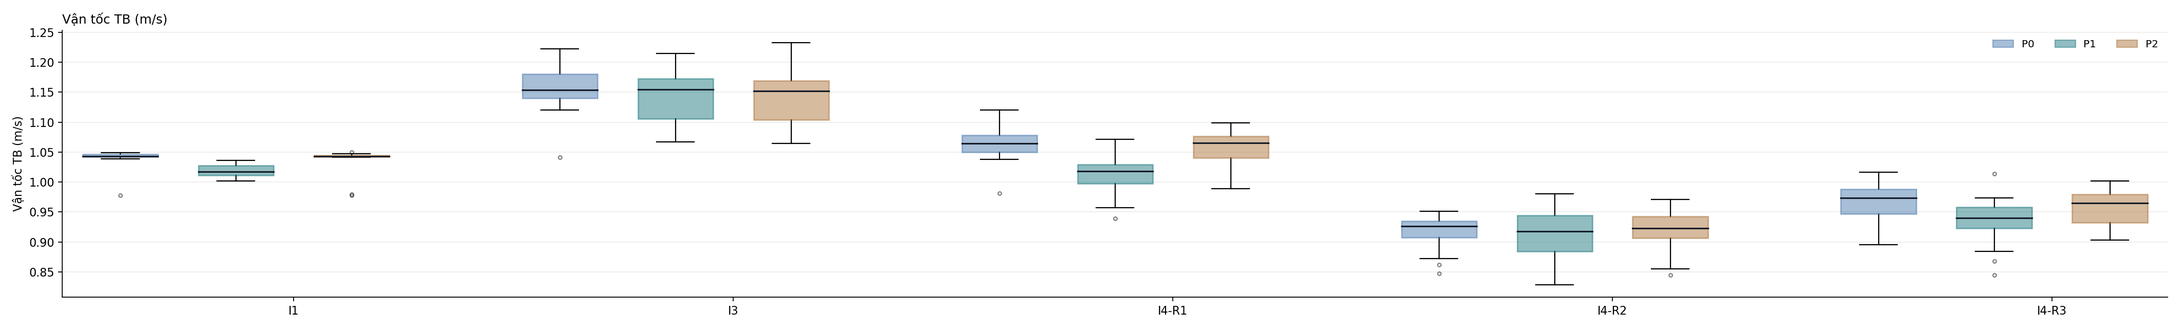
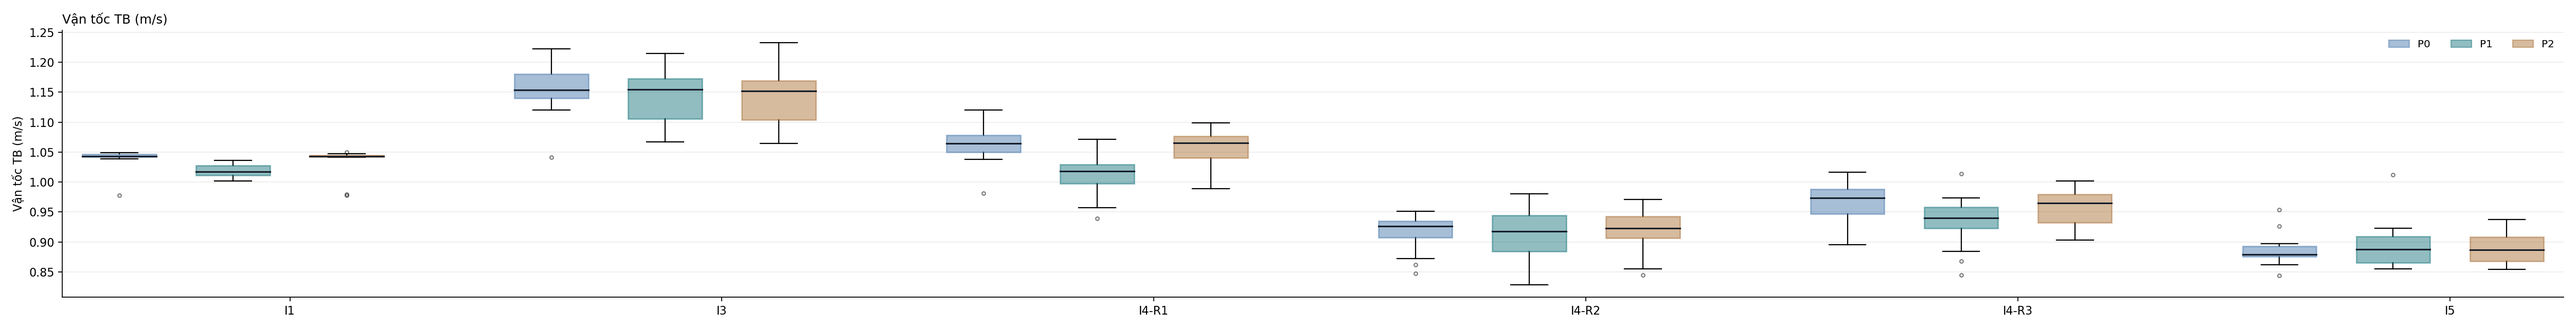
M3: ban do I5 ngo cut chu U, baseline 6 cau hinh x P0/P1/P2 x 20 luot (360 luot)

diff --git a/uav_simulator/map_generator/src/indoor_map_generator.cpp b/uav_simulator/map_generator/src/indoor_map_generator.cpp
@@ -169,6 +169,26 @@ void buildI4(Cloud& c, unsigned /*seed*/) {
   for (const auto& f : furn) addBox(c, f[0], f[1], f[2], f[3], f[4]);
 }
 
+// ---------------- I5: ngo cut chu U, 20x15x3 ----------------
+// Tuong chu U kin toi tran, mieng quay ve phia xuat phat (-8, 0), dich (8, 0)
+// nam sau day chu U. Dung de ghi nhan cuc tieu dia phuong cua baseline.
+void buildI5(Cloud& c, unsigned /*seed*/) {
+  const double SX = 20.0, SY = 15.0, SZ = 3.0;
+  addRoomShell(c, SX, SY, SZ);
+
+  const double X_MIENG = -2.0, X_DAY = 2.0, Y_CANH = 4.0;   // tui sau 4 m, rong 8 m
+  const Doors khong_cua;
+  // day chu U: vach x = +2, keo dai qua be day canh de bit kin goc
+  addPartition(c, true, X_DAY, -Y_CANH - WALL_T / 2, Y_CANH + WALL_T / 2, SZ, khong_cua);
+  // hai canh chu U: vach y = +-4, tu mieng toi day
+  addPartition(c, false,  Y_CANH, X_MIENG, X_DAY, SZ, khong_cua);
+  addPartition(c, false, -Y_CANH, X_MIENG, X_DAY, SZ, khong_cua);
+  // bit dau hai canh o mieng tui
+  addSlab(c, X_MIENG, X_MIENG,  Y_CANH - WALL_T / 2,  Y_CANH + WALL_T / 2, FLOOR_Z, SZ);
+  addSlab(c, X_MIENG, X_MIENG, -Y_CANH - WALL_T / 2, -Y_CANH + WALL_T / 2, FLOOR_Z, SZ);
+}
+
+
 
 int main(int argc, char** argv) {
   if (argc < 4) {
@@ -184,6 +204,7 @@ int main(int argc, char** argv) {
   if      (type == "I1") buildI1(cloud, seed);
   else if (type == "I3") buildI3(cloud, seed);
   else if (type == "I4") buildI4(cloud, seed);
+  else if (type == "I5") buildI5(cloud, seed);
   else { std::cerr << "Chua cai dat ban do: " << type << "\n"; return 1; }
 
   cloud.width    = cloud.points.size();

diff --git a/results/summary/bang_ket_qua.tex b/results/summary/bang_ket_qua.tex
@@ -21,6 +21,9 @@ I4-R2 & P2 & 100.0 & 17.08 $\pm$ 0.61 & 15.74 $\pm$ 0.26 & 1.86 $\pm$ 0.22 & 0.4
 I4-R3 & P0 & 100.0 & 16.38 $\pm$ 0.75 & 15.81 $\pm$ 0.40 & 2.15 $\pm$ 0.21 & 0.41 $\pm$ 0.02 & 1.66 $\pm$ 0.22 \\
 I4-R3 & P1 & 100.0 & 16.81 $\pm$ 0.98 & 15.69 $\pm$ 0.35 & 2.11 $\pm$ 0.32 & 0.39 $\pm$ 0.04 & 1.66 $\pm$ 0.33 \\
 I4-R3 & P2 & 100.0 & 16.40 $\pm$ 0.64 & 15.66 $\pm$ 0.32 & 2.00 $\pm$ 0.34 & 0.42 $\pm$ 0.01 & 1.80 $\pm$ 0.25 \\
+I5 & P0 & 0.0 & 120.18 $\pm$ 0.06 & 106.38 $\pm$ 2.78 & 3.12 $\pm$ 0.19 & 0.29 $\pm$ 0.20 & 2.88 $\pm$ 0.15 \\
+I5 & P1 & 0.0 & 120.18 $\pm$ 0.06 & 107.33 $\pm$ 4.38 & 5.98 $\pm$ 0.53 & 0.19 $\pm$ 0.16 & 1.37 $\pm$ 0.15 \\
+I5 & P2 & 0.0 & 120.17 $\pm$ 0.07 & 106.91 $\pm$ 3.00 & 3.04 $\pm$ 0.21 & 0.31 $\pm$ 0.19 & 3.04 $\pm$ 0.14 \\
 \hline
 \end{tabular}
 \end{table}

diff --git a/thesis_tools/benchmark_tools/scripts/batch_runner.py b/thesis_tools/benchmark_tools/scripts/batch_runner.py
@@ -44,6 +44,8 @@ MAPS = {
     "I4-R1": dict(pcd="I4", size=(26.0, 16.0, 4.5), start=(-10.0, -5.0), goals=[(10.0, -5.0)]),
     "I4-R2": dict(pcd="I4", size=(26.0, 16.0, 4.5), start=(-10.0, -5.0), goals=[(-10.0, 5.0)]),
     "I4-R3": dict(pcd="I4", size=(26.0, 16.0, 4.5), start=(10.0, -5.0), goals=[(10.0, 5.0)]),
+    # I5: ngo cut chu U kin toi tran, mieng quay ve xuat phat — cuc tieu dia phuong
+    "I5": dict(pcd="I5", size=(21.0, 16.0, 4.5), start=(-8.0, 0.0), goals=[(8.0, 0.0)])
 }
 
 # Tham so bay chung cho moi ban do

diff --git a/results/summary/bang_ket_qua.md b/results/summary/bang_ket_qua.md
@@ -19,3 +19,6 @@ Mỗi ô: trung bình ± độ lệch chuẩn. Cột N là số lượt chạy.
 | I4-R3 | P0 | 20 | 100.0 | 0 | 0 | 16.38 ± 0.75 | 15.81 ± 0.40 | 0.97 ± 0.03 | 1.46 ± 0.04 | 76.00 ± 13.51 | 2.15 ± 0.21 | 0.72 ± 0.01 | 0.41 ± 0.02 | 0.48 ± 0.03 | 9.98 ± 0.92 | 39.14 ± 6.58 | 1.66 ± 0.22 | 3.81 ± 0.47 | 9.30 ± 0.66 | 0.84 ± 0.12 |
 | I4-R3 | P1 | 20 | 100.0 | 0 | 0 | 16.81 ± 0.98 | 15.69 ± 0.35 | 0.94 ± 0.04 | 1.42 ± 0.07 | 77.23 ± 25.90 | 2.11 ± 0.32 | 0.64 ± 0.07 | 0.39 ± 0.04 | 0.45 ± 0.04 | 10.32 ± 1.80 | 37.15 ± 6.40 | 1.66 ± 0.33 | 3.84 ± 0.74 | 9.75 ± 1.52 | 0.88 ± 0.07 |
 | I4-R3 | P2 | 20 | 100.0 | 0 | 0 | 16.40 ± 0.64 | 15.66 ± 0.32 | 0.96 ± 0.03 | 1.48 ± 0.03 | 66.67 ± 19.98 | 2.00 ± 0.34 | 0.72 ± 0.01 | 0.42 ± 0.01 | 0.48 ± 0.03 | 10.43 ± 1.83 | 41.54 ± 10.04 | 1.80 ± 0.25 | 4.01 ± 0.73 | 9.35 ± 0.49 | 0.84 ± 0.08 |
+| I5 | P0 | 20 | 0.0 | 8 | 20 | 120.18 ± 0.06 | 106.38 ± 2.78 | 0.89 ± 0.02 | 1.49 ± 0.01 | 1172.10 ± 150.16 | 3.12 ± 0.19 | 0.98 ± 0.14 | 0.29 ± 0.20 | 0.54 ± 0.01 | 158.49 ± 53.75 | 1588.32 ± 492.45 | 2.88 ± 0.15 | 5.21 ± 0.04 | 54.85 ± 2.18 | 0.41 ± 0.22 |
+| I5 | P1 | 20 | 0.0 | 9 | 20 | 120.18 ± 0.06 | 107.33 ± 4.38 | 0.89 ± 0.04 | 1.48 ± 0.02 | 4336.44 ± 800.85 | 5.98 ± 0.53 | 1.33 ± 0.13 | 0.19 ± 0.16 | 0.43 ± 0.03 | 70.82 ± 20.53 | 1351.17 ± 556.83 | 1.37 ± 0.15 | 4.79 ± 0.35 | 128.10 ± 17.32 | 0.24 ± 0.18 |
+| I5 | P2 | 20 | 0.0 | 6 | 20 | 120.17 ± 0.07 | 106.91 ± 3.00 | 0.89 ± 0.02 | 1.49 ± 0.01 | 1117.14 ± 156.29 | 3.04 ± 0.21 | 0.97 ± 0.10 | 0.31 ± 0.19 | 0.55 ± 0.01 | 146.54 ± 55.88 | 1461.24 ± 587.42 | 3.04 ± 0.14 | 5.22 ± 0.05 | 54.05 ± 3.32 | 0.44 ± 0.20 |
